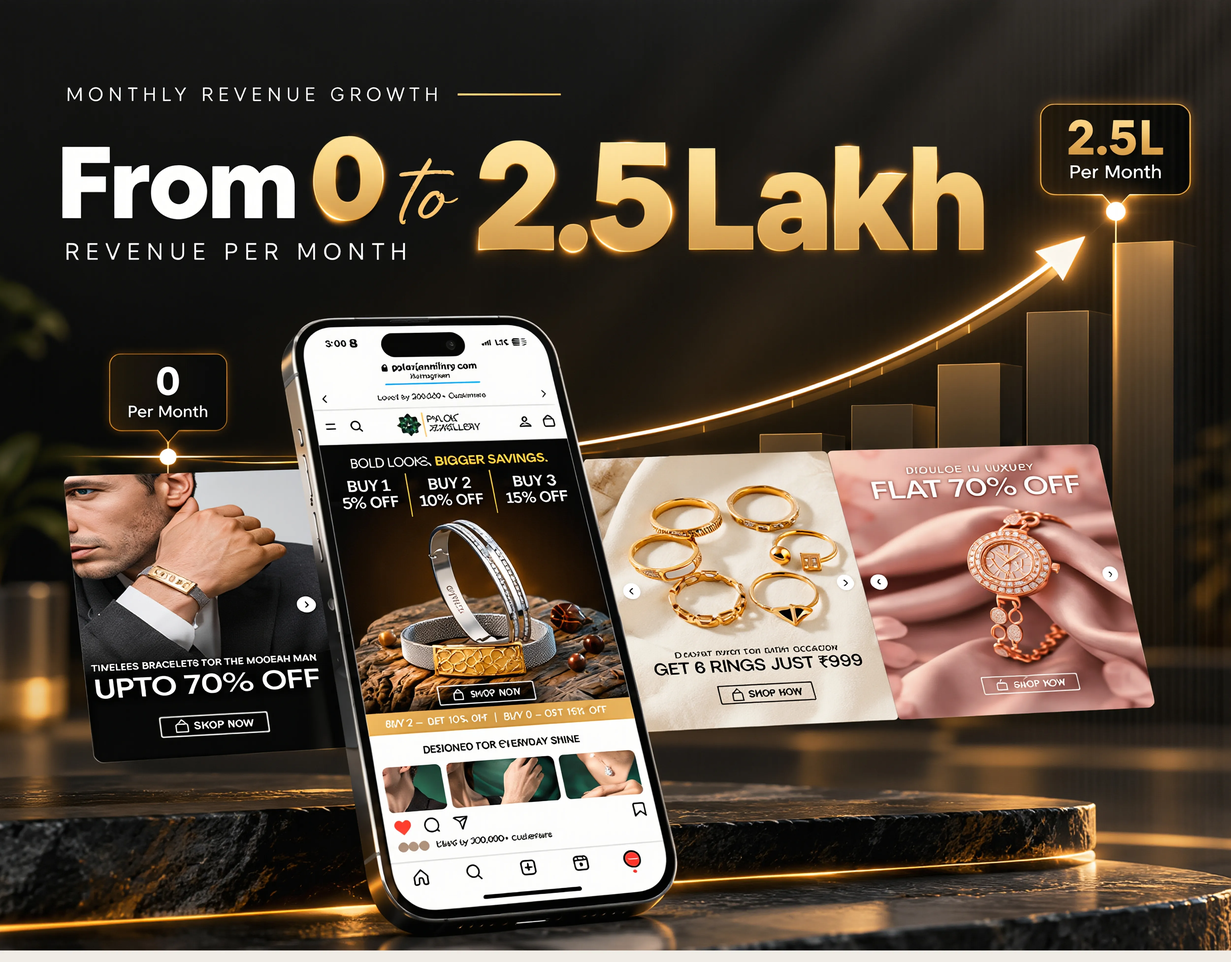
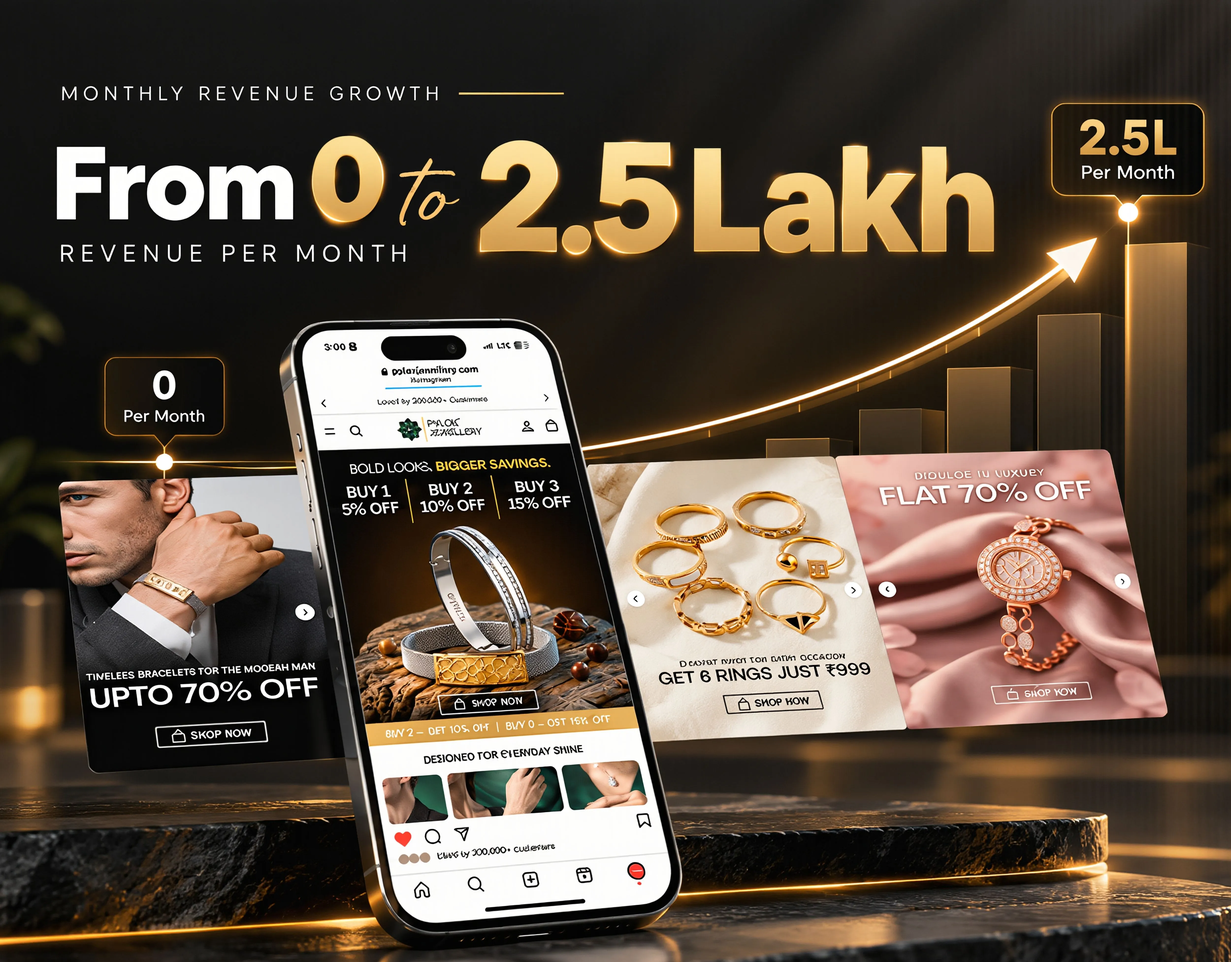
updated and css js fix

diff --git a/assets/js/scripts.js b/assets/js/scripts.js
@@ -1389,12 +1389,26 @@ $(function () {
     }
 });
 
-window.addEventListener("pageshow", function (event) {
-    if (event.persisted) {
-        ScrollTrigger.refresh();
-
-        if (window.ScrollSmoother) {
-            ScrollSmoother.get()?.refresh();
-        }
+// Recalculate pinned cards after images, fonts and restored pages settle.
+(function () {
+    var refreshFrame;
+    function refreshLayout() {
+        cancelAnimationFrame(refreshFrame);
+        refreshFrame = requestAnimationFrame(function () {
+            document.querySelectorAll('.swiper-container').forEach(function (container) {
+                if (container.swiper) container.swiper.update();
+            });
+            if (window.ScrollTrigger) ScrollTrigger.refresh();
+        });
     }
-});
+    $(refreshLayout);
+    window.addEventListener('load', refreshLayout);
+    window.addEventListener('pageshow', refreshLayout);
+    if (document.fonts) document.fonts.ready.then(refreshLayout);
+    document.querySelectorAll('img').forEach(function (img) {
+        if (!img.complete) {
+            img.addEventListener('load', refreshLayout, { once: true });
+            img.addEventListener('error', refreshLayout, { once: true });
+        }
+    });
+})();

diff --git a/assets/css/style.css b/assets/css/style.css
@@ -10051,7 +10051,7 @@ body.light .theme-icon .moon {
   left: -30px;
   width: 75%;
   height: 75%;
-  background-image: url(../imgs/intro/mshap1.png);
+  background-image: url(../imgs/intro/a.webp);
   background-size: contain;
   background-repeat: no-repeat;
   pointer-events: none;
@@ -10071,7 +10071,7 @@ body.light .theme-icon .moon {
   right: 0;
   width: 50%;
   height: 100%;
-  background-image: url(../imgs/intro/p1.png);
+  background-image: url(../imgs/intro/b.webp);
   background-size: cover;
   pointer-events: none;
   z-index: -1;

diff --git a/assets/css/preview.css b/assets/css/preview.css
@@ -8147,7 +8147,7 @@ body.light .theme-icon .moon {
   left: -30px;
   width: 75%;
   height: 75%;
-  background-image: url(../imgs/intro/mshap1.png);
+  background-image: url(../imgs/intro/a.webp);
   background-size: contain;
   background-repeat: no-repeat;
   pointer-events: none;
@@ -8165,7 +8165,7 @@ body.light .theme-icon .moon {
   right: 0;
   width: 50%;
   height: 100%;
-  background-image: url(../imgs/intro/p1.png);
+  background-image: url(../imgs/intro/b.webp);
   background-size: cover;
   pointer-events: none;
   z-index: -1;

diff --git a/header.php b/header.php
@@ -1,3 +1,12 @@
+<?php
+header('Cache-Control: no-cache, must-revalidate');
+function asset_url(string $path): string
+{
+    $file = __DIR__ . '/' . $path;
+    $version = is_file($file) ? filemtime($file) : 0;
+    return htmlspecialchars($path . '?v=' . $version, ENT_QUOTES, 'UTF-8');
+}
+?>
 <!DOCTYPE html>
 <html lang="en">
 
@@ -16,15 +25,15 @@
     <link rel="preconnect" href="https://fonts.gstatic.com" crossorigin>
     <link href="https://fonts.googleapis.com/css2?family=Inter:wght@100..900&display=swap" rel="stylesheet">
     <link
-        href="[fonts.googleapis.com](https://fonts.googleapis.com/css2?family=Funnel+Display:wght@300..800&display=swap)"
+        href="https://fonts.googleapis.com/css2?family=Funnel+Display:wght@300..800&display=swap"
         rel="stylesheet">
     <link
-        href="[fonts.googleapis.com](https://fonts.googleapis.com/css2?family=Mozilla+Text:wght@200..700&display=swap)"
+        href="https://fonts.googleapis.com/css2?family=Mozilla+Text:wght@200..700&display=swap"
         rel="stylesheet">
 
     <!-- Plugins & Core Styles -->
-    <link rel="stylesheet" href="assets/css/plugins.css">
-    <link rel="stylesheet" href="assets/css/style.css?v=<?php echo time(); ?>">
+    <link rel="stylesheet" href="<?php echo asset_url('assets/css/plugins.css'); ?>">
+    <link rel="stylesheet" href="<?php echo asset_url('assets/css/style.css'); ?>">
 </head>
 
 <body class="main-bg">

diff --git a/index.php b/index.php
@@ -294,7 +294,54 @@ include 'header.php'; ?>
             </section>
 
 
+<style>
 
+    /* Portfolio images - full image visible & responsive */
+.portfolio-style2 .fit-img {
+    width: 100%;
+    height: 500px;
+    overflow: hidden;
+    border-radius: 30px;
+}
+
+.portfolio-style2 .fit-img img {
+    width: 100% !important;
+    height: 100% !important;
+    object-fit: contain !important;
+    object-position: center center !important;
+    display: block;
+}
+
+/* Tablet */
+@media (max-width: 991px) {
+    .portfolio-style2 .fit-img {
+        height: auto;
+        min-height: 400px;
+    }
+
+    .portfolio-style2 .fit-img img {
+        height: auto !important;
+        min-height: 400px;
+        object-fit: contain !important;
+    }
+}
+
+/* Mobile */
+@media (max-width: 575px) {
+    .portfolio-style2 .fit-img {
+        height: auto;
+        min-height: 300px;
+        border-radius: 20px;
+    }
+
+    .portfolio-style2 .fit-img img {
+        width: 100% !important;
+        height: auto !important;
+        min-height: 300px;
+        object-fit: contain !important;
+    }
+}
+</style>
             
                 <!-- ==================== Start Portfolio ==================== -->
 

diff --git a/footer.php b/footer.php
@@ -96,14 +96,14 @@
 </div>
 
 <!-- Scripts -->
-<script src="assets/js/jquery-3.6.0.min.js"></script>
-<script src="assets/js/jquery-migrate-3.4.0.min.js"></script>
-<script src="assets/js/plugins.js"></script>
-<script src="assets/js/gsap.min.js"></script>
-<script src="assets/js/ScrollTrigger.min.js"></script>
-<script src="assets/js/ScrollSmoother.min.js"></script>
-<script src="assets/js/smoother-script.js"></script>
-<script src="assets/js/scripts.js?v=<?php echo time(); ?>"></script>
+<script src="<?php echo asset_url('assets/js/jquery-3.6.0.min.js'); ?>"></script>
+<script src="<?php echo asset_url('assets/js/jquery-migrate-3.4.0.min.js'); ?>"></script>
+<script src="<?php echo asset_url('assets/js/plugins.js'); ?>"></script>
+<script src="<?php echo asset_url('assets/js/gsap.min.js'); ?>"></script>
+<script src="<?php echo asset_url('assets/js/ScrollTrigger.min.js'); ?>"></script>
+<script src="<?php echo asset_url('assets/js/ScrollSmoother.min.js'); ?>"></script>
+<script src="<?php echo asset_url('assets/js/smoother-script.js'); ?>"></script>
+<script src="<?php echo asset_url('assets/js/scripts.js'); ?>"></script>
 
 <!-- Smooth scroll to section anchors -->
 <script>
